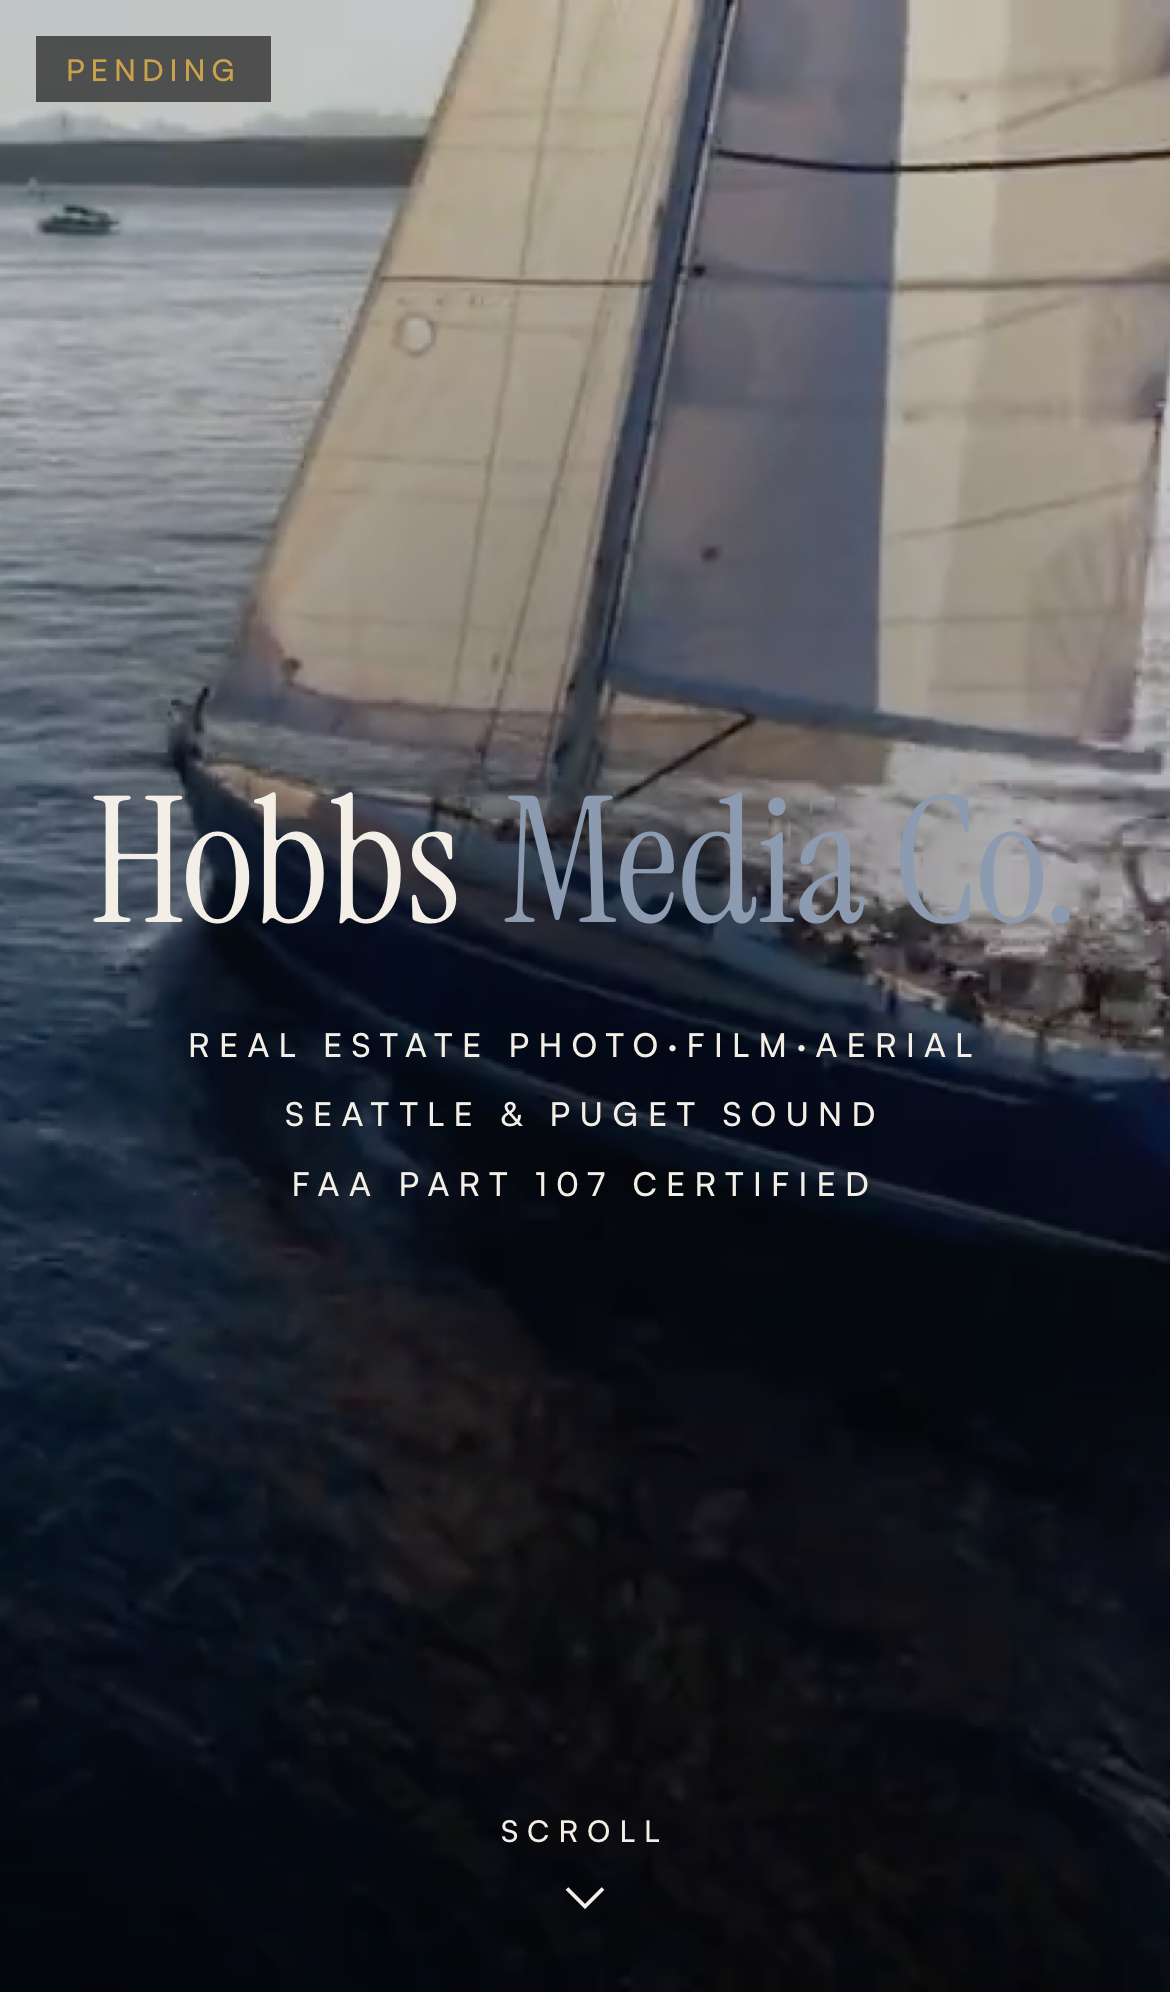
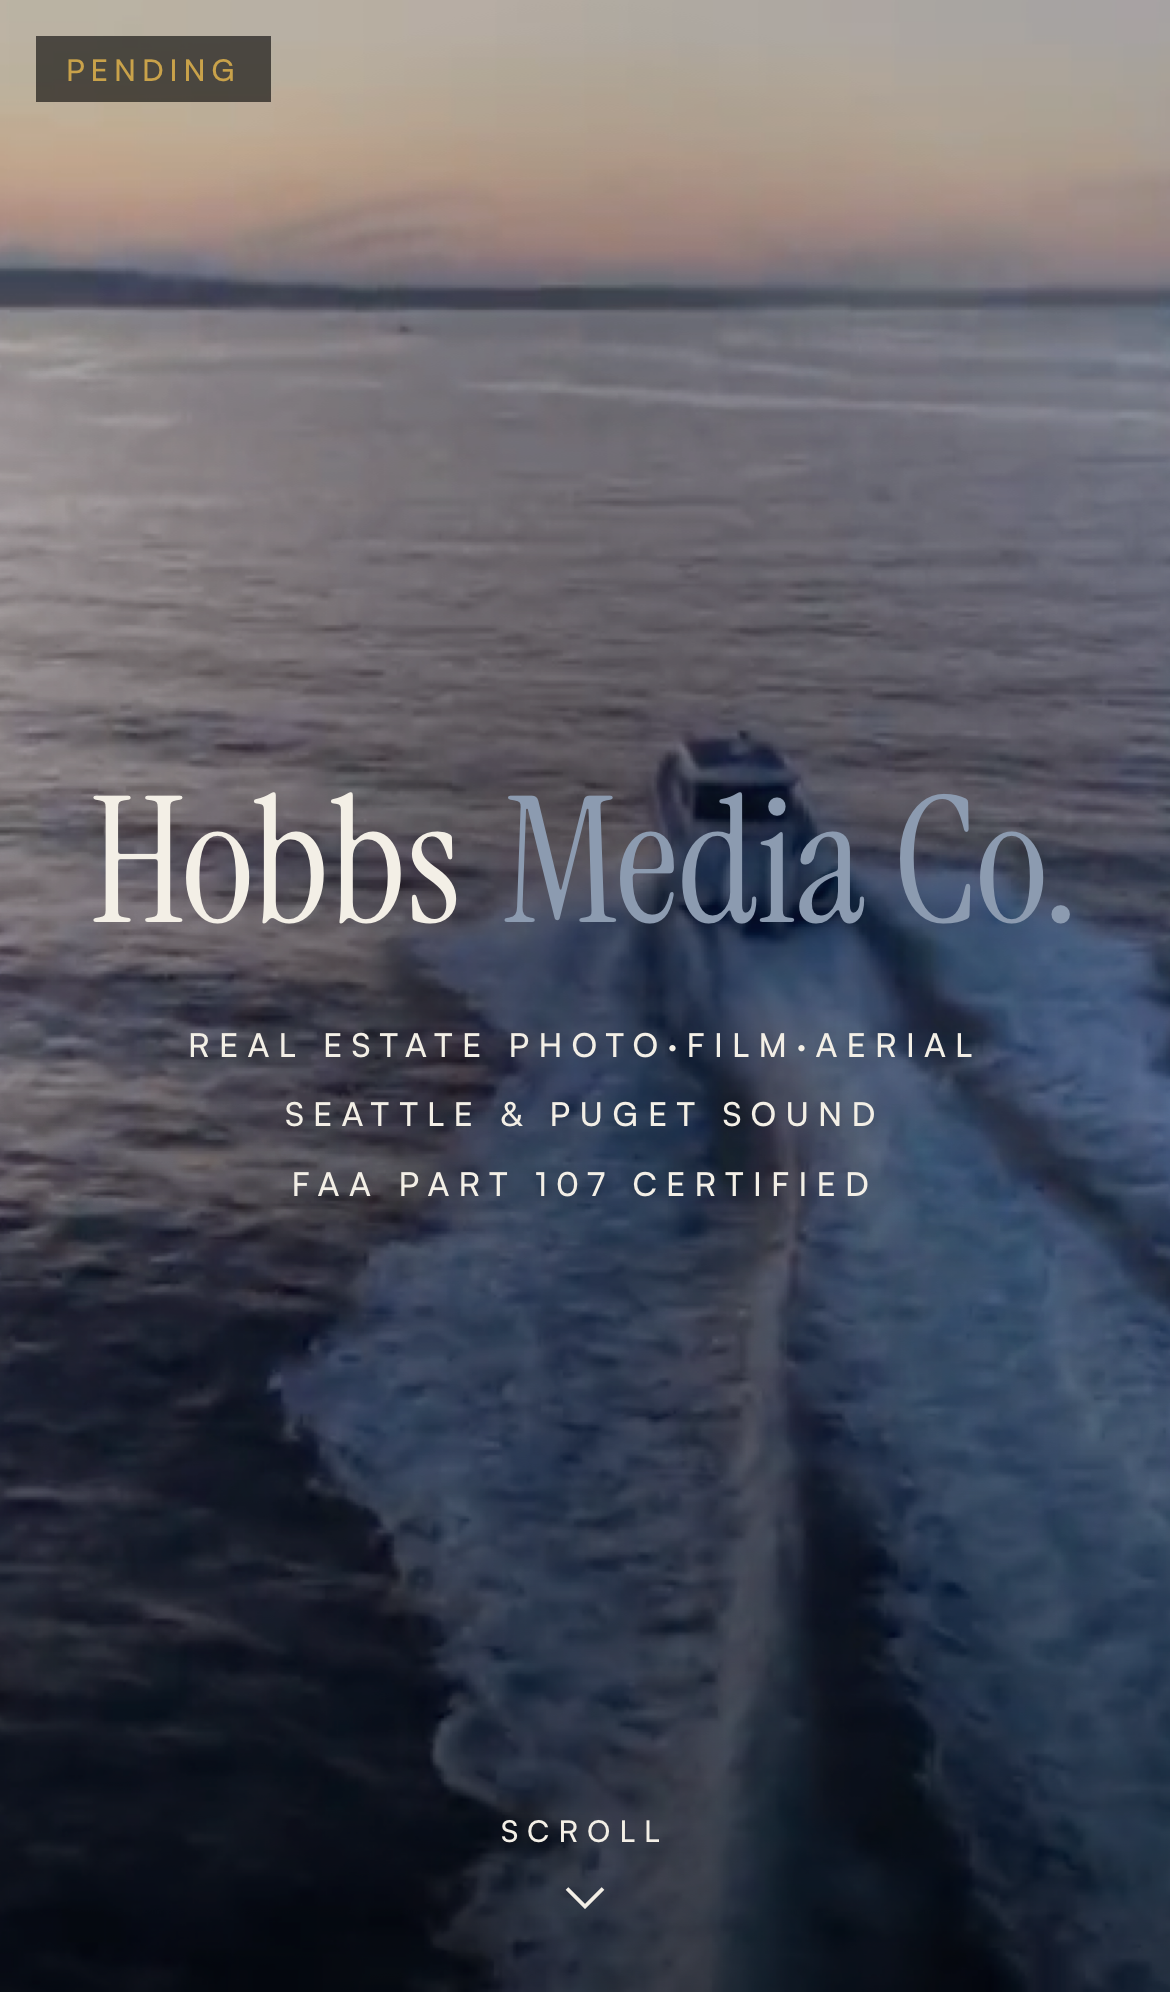
feat(clips): yacht at dusk is the hero; sailboat joins the stack
The hero reel is now the small yacht running away into dusk water (closest
to the approved mockup); the sailboat orbit moves to the selected-work stack
and the sample property card uses the fog reveal. Mockup D re-rendered.

diff --git a/test/unit/guard.mock.test.ts b/test/unit/guard.mock.test.ts
@@ -65,7 +65,7 @@ describe("guard report branches", () => {
     expect(r.integrity).toEqual(['properties[orphan].agent "nobody" does not match any agent slug']);
     expect(r.limitViolations.map((v) => v.what)).toEqual(["agents[long].displayName", "agents[long].brokerage", "properties[orphan].title"]);
     expect(r.plaqueLimitViolations.map((v) => v.what)).toEqual(["/for/long plaque line 1", "/for/long plaque line 2", "/p/orphan plaque line 1"]);
-    expect(r.unapprovedClips).toEqual(["sailboat-sunset", "tug-daylight"]);
+    expect(r.unapprovedClips).toEqual(["yacht-dusk-wake", "tug-daylight"]);
     const text = r.lines.join("\n");
     expect(text).toContain("Over-limit strings (design 17A):");
     expect(text).toContain('agents[long].displayName: "Alexandria Montgomery-Whitfield" is 31 characters (limit 24)');

diff --git a/test/unit/content.test.ts b/test/unit/content.test.ts
@@ -42,7 +42,7 @@ describe("OG plaque line (10A)", () => {
   it("home carries the trade; share links carry the personalization", () => {
     expect(ogPlaqueLine({ kind: "home" }).line).toBe("REAL ESTATE PHOTO·FILM·AERIAL");
     expect(ogPlaqueLine({ kind: "agent", slug: "jessica" }).line).toBe("PREPARED FOR JESSICA TRAN");
-    expect(ogPlaqueLine({ kind: "property", slug: "ocean-ave" })).toMatchObject({ clipId: "yacht-dusk-wake", line: "1234 OCEAN AVE · FOR JESSICA TRAN" });
+    expect(ogPlaqueLine({ kind: "property", slug: "ocean-ave" })).toMatchObject({ clipId: "needle-above-clouds", line: "1234 OCEAN AVE · FOR JESSICA TRAN" });
   });
 });
 

diff --git a/test/e2e/routes.spec.ts b/test/e2e/routes.spec.ts
@@ -92,7 +92,7 @@ test.describe("routes, metadata, caching", () => {
   test("selected work renders every entry with title, tracked subtitle, short-form tag, and PENDING in review", async ({ page }) => {
     await page.goto("/dark");
     const frames = page.locator(".frame");
-    expect(await frames.count()).toBe(7);
+    expect(await frames.count()).toBe(8);
     await expect(frames.first().locator(".chip")).toHaveText("AERIAL");
     await expect(frames.first().locator(".pending-tag")).toHaveText(/pending/i);
     await expect(frames.first().locator(".frame-title")).not.toBeEmpty();

diff --git a/test/e2e/reduced-motion.spec.ts b/test/e2e/reduced-motion.spec.ts
@@ -19,7 +19,7 @@ test.describe("prefers-reduced-motion: posters only, normal flow", () => {
     const playing = await page.evaluate(() => [...document.querySelectorAll("video")].filter((v) => !v.paused).length);
     expect(playing).toBe(0);
     // The server-rendered hero src is metadata-only; nothing else is fetched.
-    expect(mp4s.filter((u) => !u.includes("sailboat-sunset"))).toEqual([]);
+    expect(mp4s.filter((u) => !u.includes("yacht-dusk-wake"))).toEqual([]);
   });
 
   test("calling card: contact sits directly beneath a static poster hero", async ({ page }) => {

diff --git a/test/unit/site.test.ts b/test/unit/site.test.ts
@@ -18,7 +18,7 @@ describe("site/routes + site/og fallbacks", () => {
     const home = ogPlaqueLine({ kind: "home" });
     expect(ogPlaqueLine({ kind: "agent", slug: "nobody" })).toEqual(home);
     expect(ogPlaqueLine({ kind: "property", slug: "nowhere" })).toEqual(home);
-    expect(home.clipId).toBe("sailboat-sunset");
+    expect(home.clipId).toBe("yacht-dusk-wake");
   });
 
   it("readFont rejects with a named error when a file is missing and returns bytes otherwise; posterDataUrl inlines the poster; OG factories bind the static params", async () => {

diff --git a/content/work.ts b/content/work.ts
@@ -20,6 +20,13 @@ export interface WorkItem {
 
 export const work: WorkItem[] = [
   {
+    slug: "sailboat-sunset",
+    title: todo("work.sailboat-sunset.title", "Under Sail"),
+    subtitle: todo("work.sailboat-sunset.subtitle", "Aerial film · Puget Sound"),
+    tag: "drone",
+    media: { clip: "sailboat-sunset" },
+  },
+  {
     slug: "needle-above-clouds",
     title: todo("work.needle-above-clouds.title", "Above the Fog"),
     subtitle: todo("work.needle-above-clouds.subtitle", "Aerial film · Seattle"),

diff --git a/content/site.ts b/content/site.ts
@@ -18,7 +18,7 @@ export const brand = {
 } as const;
 
 /** The home hero and every share link play this unless a property overrides it. */
-export const heroClip: ClipId = "sailboat-sunset";
+export const heroClip: ClipId = "yacht-dusk-wake";
 
 /** Optional Sam-supplied photo for the `hobbs` still hero; falls back to the hero clip's 1920 poster. */
 export const heroImage: string | null = null;

diff --git a/content/properties.ts b/content/properties.ts
@@ -22,7 +22,7 @@ export const properties: Property[] = [
     slug: "ocean-ave",
     title: todo("properties.ocean-ave.title", "1234 Ocean Ave"),
     subtitle: todo("properties.ocean-ave.subtitle", "Aerial film"),
-    reel: "yacht-dusk-wake",
+    reel: "needle-above-clouds",
     agent: "jessica",
   },
 ];
